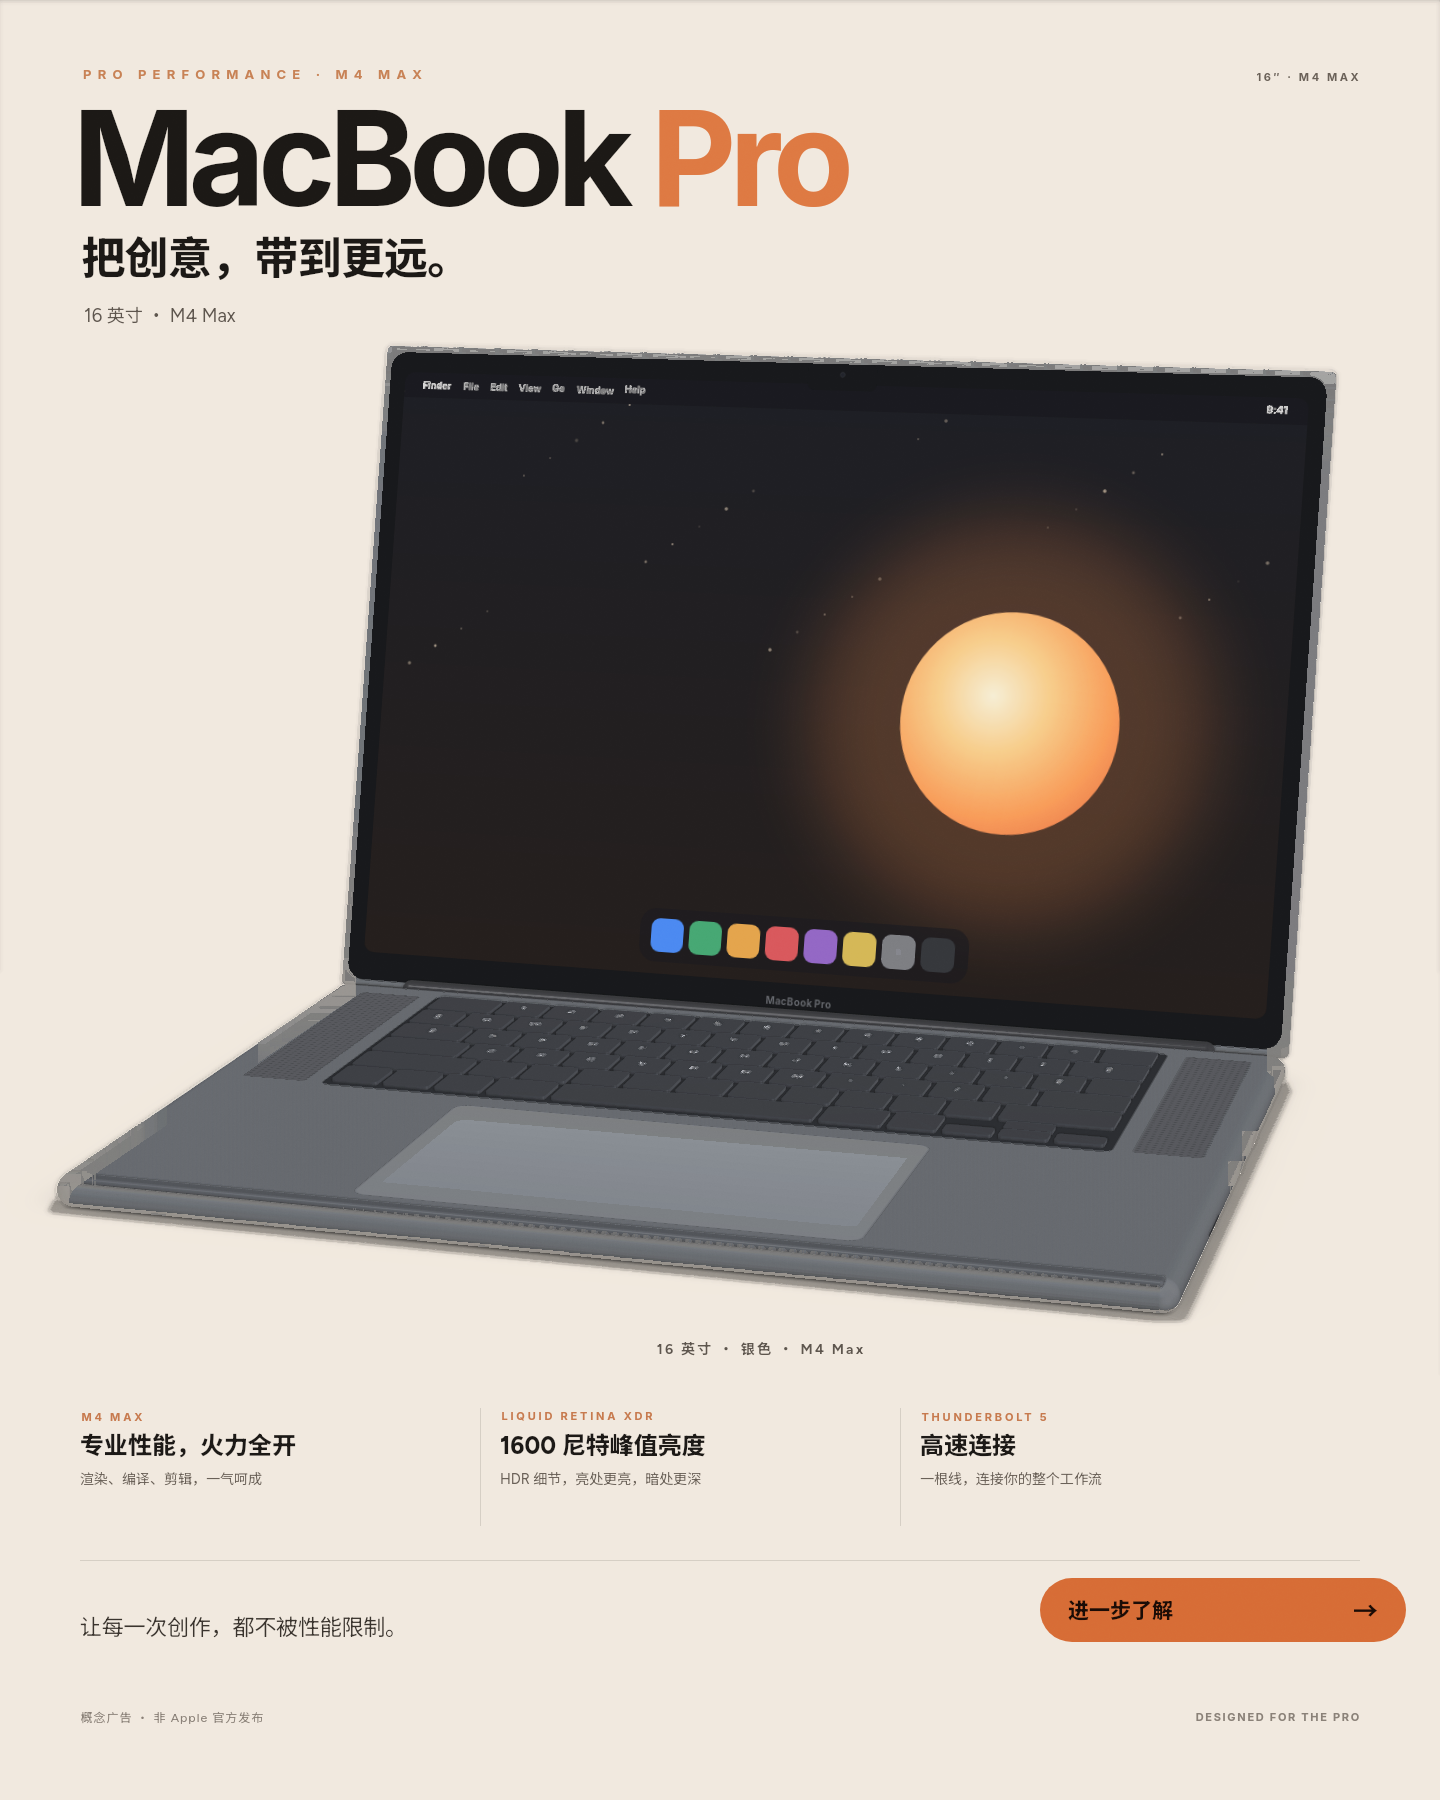
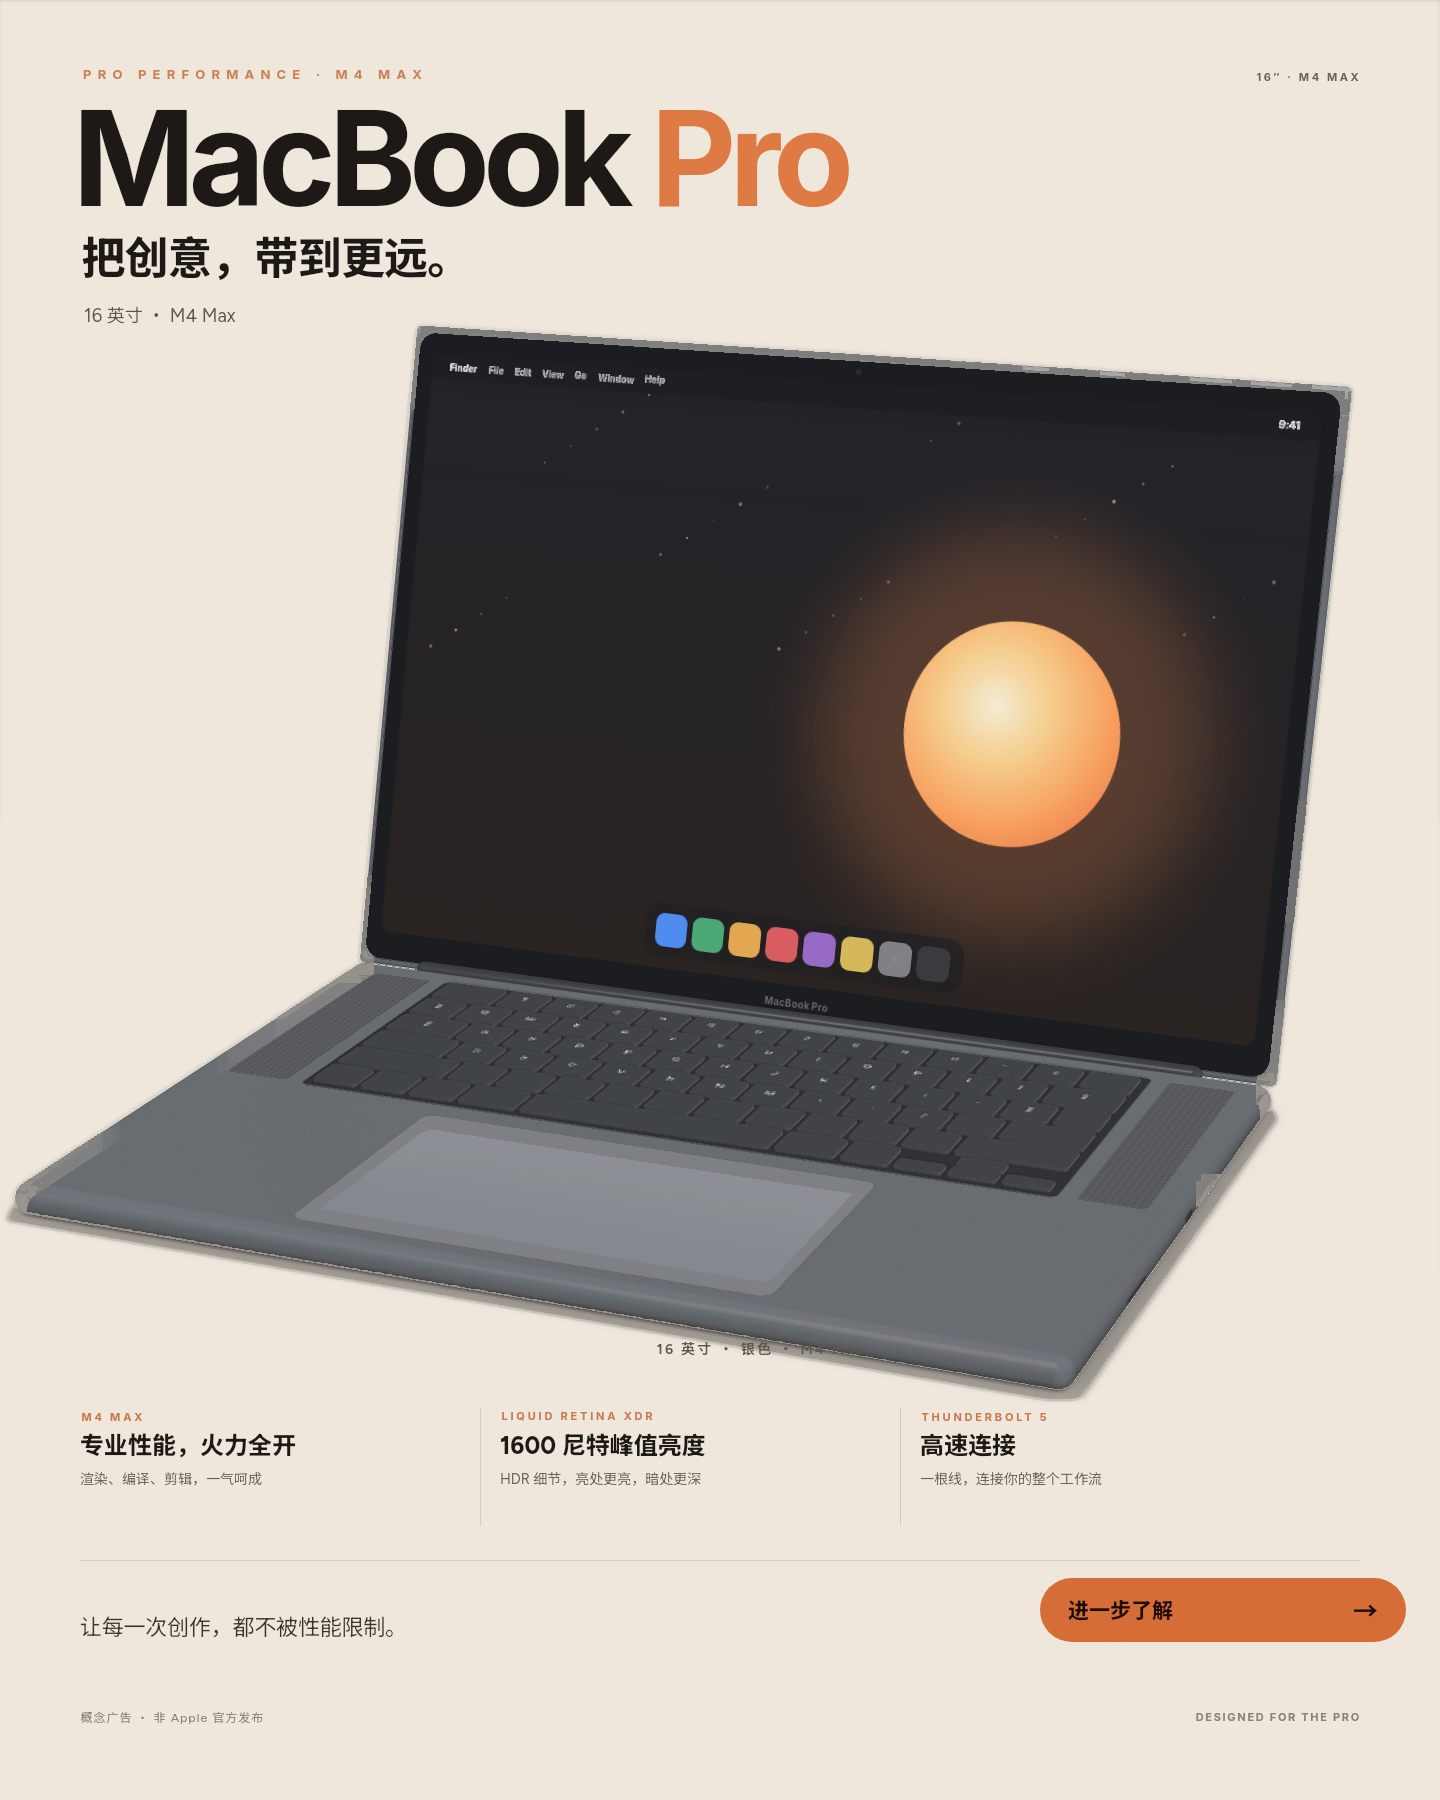
QUALITY-6 §9.2: side-white frost glass; space-gray macbook.
Move white stripe off the glass axis; frost 0.11; darker shell,
higher camera, no front bevel ghost rim.

diff --git a/examples/macbook-pro.tsx b/examples/macbook-pro.tsx
@@ -4,9 +4,8 @@
 // npx tsx src/cli.ts render examples/macbook-pro.tsx -o examples/macbook-pro.png
 // 机身 980 × 670 × 30，屏幕盖 980 × 666 × 10，按 2.755 px/mm 换算。
 // Darker shell so lid bezel specular cannot read as chrome (§9.2).
-const SILVER = '#6e737a'
+const SILVER = '#5f646b'
 const SHELL = 'plastic 0.845'
-const FRONT = '#555960'
 const KEY = '#2e3138'
 const WELL = '#1a1c20'
 
@@ -122,8 +121,6 @@ function Base() {
   return (
     <layer x={STAGE.x} y={STAGE.groundY - TOP} width={W} height={D} origin={`${W / 2} 0`} rotateX="90" preserve-3d>
       <rect width={W} height={D} rx="24" fill={SILVER} material={SHELL} depth={T} stroke="none" />
-      {/* Darker front lip so the extruded front face cannot read as chrome. */}
-      <rect x="12" y={D - 14} width={W - 24} height="14" rx="6" fill={FRONT} material="plastic 0.84" depth="6" z={TOP - 2} stroke="none" cast-shadow="false" />
       <layer x="0" y="0" width={W} height={D} z={TOP + 0.2} cast-shadow="false">
         <rect x={WELL_BOX.x} y={WELL_BOX.y} width={WELL_BOX.w} height={WELL_BOX.h} rx="8" fill={WELL} />
         <rect x={KB.x - GRILLE_W - 18} y={KB.y + 4} width={GRILLE_W} height={WELL_BOX.h - 8} rx="4" fill="#4a4c51" />
@@ -210,13 +207,13 @@ function Lid() {
 export default (
   <layer width="1440" height="1800" background="#f6f3ee" color="#1c1916" min-font="10" noise="0.012">
     <rect x="0" y="0" width="1440" height="1800" fill="linear-gradient(180deg, #f7f4ef 0%, #efe8df 100%)" />
-    <layer width="1440" height="1800" camera="fov 28, orbit 16 14" light="world" grade="matte 0.7">
-      {/* Stronger matte + darker front bevel kill chrome lip (§9.2). */}
-      <light type="hemisphere" intensity="0.58" color="#fff8f0" ground-color="#d2ccc4" />
-      <light type="directional" intensity="0.18" color="#fff5ea" x="200" y="-400" z="600" target="0 0 0" />
+    <layer width="1440" height="1800" camera="fov 28, orbit 22 18" light="world" grade="matte 0.85">
+      {/* Higher camera + heavy matte — front bevel/ghost rim read as chrome (§9.2). */}
+      <light type="hemisphere" intensity="0.7" color="#fff8f0" ground-color="#d2ccc4" />
+      <light type="directional" intensity="0.12" color="#fff5ea" x="120" y="-500" z="500" target="0 0 0" />
       <Lid />
       <Base />
-      <ground y={STAGE.groundY} rotateX="90" fill="#efe8df" shadow-blur="72" shadow-opacity="0.28" />
+      <ground y={STAGE.groundY} rotateX="90" fill="#efe8df" shadow-blur="80" shadow-opacity="0.24" />
     </layer>
     <layer x="80" y="66">
       <p style="font-family:Inter; font-size:13px; font-weight:700; letter-spacing:6.2px; color:#c88255">PRO PERFORMANCE · M4 MAX</p>

diff --git a/scripts/gallery-3d.ts b/scripts/gallery-3d.ts
@@ -337,13 +337,13 @@ function buildPlates(): { sheet: string; title: string; cols: number; cells: Pla
           )
           .replace(
             '<rect id="stripe-white" x="246" y="200" width="36" height="78" depth="160" fill="#f7f4ee" />',
-            // Thin pale edge-only white — wide cream bars read as blocky verticals
-            // through the glass under dual-blind (§9.2).
-            '<rect id="stripe-white" x="238" y="200" width="14" height="78" depth="160" fill="#a8a094" />',
+            // Drop vertical white behind glass (blocky refraction). A pale card
+            // beside the sphere still clips the glass for throughGlass white.
+            '<rect id="stripe-white" x="318" y="230" width="48" height="22" depth="40" fill="#e8e4dc" />',
           )
           .replace(
             '<sphere id="glass" cx="264" cy="268" r="58" z="58" fill="#f4fffbcc" material="glass 0.07" />',
-            '<sphere id="glass" cx="278" cy="272" r="52" z="52" fill="#ffffff55" material="glass 0.04" />',
+            '<sphere id="glass" cx="248" cy="268" r="54" z="54" fill="#ffffff44" material="glass 0.11" />',
           )
           .replace(
             '<circle id="gold" cx="780" cy="150" r="40" depth="160" fill="#e0a33a" material="plastic 0.22" />',

diff --git a/docs/gallery/3d/model/glb.tsx b/docs/gallery/3d/model/glb.tsx
@@ -14,7 +14,7 @@ import { layer } from 'flexlayer'
 export default layer.create(
   <layer width={440} height={300} background="#241f1b">
     <layer width={440} height={300} camera="fov 32, orbit 34 22, distance 860, at 220 210 0">
-      <ground y={220} rotateX={90} fill="#3a3f49" shadow-blur={40} shadow-opacity={0.36} />
+      <ground y={220} rotateX={90} fill="#3a3f49" shadow-blur={48} shadow-opacity={0.28} />
       <layer x={28} y={220} width={400} height={190} origin="200 0" rotateX={90} preserve-3d>
         <model src="box.glb" x="52" y="30" width="150" height="150" z="0" />
         <model src="diamond.glb" x="200" y="16" width="180" height="180" z="0" rotateY="-24" />

diff --git a/docs/gallery/3d/model/physical-glass.tsx b/docs/gallery/3d/model/physical-glass.tsx
@@ -25,7 +25,7 @@ function stripe(color: string, x: number) {
 export default layer.create(
   <layer width={440} height={300} background="#241f1b">
     <layer width={440} height={300} camera="fov 32, orbit 34 22, distance 860, at 220 210 0">
-      <ground y={220} rotateX={90} fill="#3a3f49" shadow-blur={40} shadow-opacity={0.36} />
+      <ground y={220} rotateX={90} fill="#3a3f49" shadow-blur={48} shadow-opacity={0.28} />
       <layer x={28} y={220} width={400} height={190} origin="200 0" rotateX={90} preserve-3d>
         <model object={stripe('#e23b2f', -0.42)} unit={85} x={200} y={190} />
         <model object={stripe('#f7f4ee', -0.12)} unit={85} x={200} y={190} />

diff --git a/docs/gallery/3d/model/standard-metal.tsx b/docs/gallery/3d/model/standard-metal.tsx
@@ -14,7 +14,7 @@ export default layer.create(
   <layer width={440} height={300} background="#241f1b">
     <layer width={440} height={300} camera="fov 32, orbit 34 22, distance 860, at 220 210 0" light="world">
       <light type="hemisphere" intensity="0.7" color="#fff6ea" ground-color="#6a6560" />
-      <ground y={220} rotateX={90} fill="#3a3f49" shadow-blur={40} shadow-opacity={0.36} />
+      <ground y={220} rotateX={90} fill="#3a3f49" shadow-blur={48} shadow-opacity={0.28} />
       <layer x={28} y={220} width={400} height={190} origin="200 0" rotateX={90} preserve-3d>
         <model object={mesh} unit={120} x={200} y={190} />
       </layer>

diff --git a/docs/gallery/3d/model/emissive.tsx b/docs/gallery/3d/model/emissive.tsx
@@ -33,7 +33,7 @@ box.position.set(0.7, 0.5, 0)
 export default layer.create(
   <layer width={440} height={300} background="#241f1b">
     <layer width={440} height={300} camera="fov 32, orbit 34 22, distance 860, at 220 210 0">
-      <ground y={220} rotateX={90} fill="#3a3f49" shadow-blur={40} shadow-opacity={0.36} />
+      <ground y={220} rotateX={90} fill="#3a3f49" shadow-blur={48} shadow-opacity={0.28} />
       <layer x={28} y={220} width={400} height={190} origin="200 0" rotateX={90} preserve-3d>
         <model object={box} unit={80} x={200} y={190} />
         <model object={bulb} unit={80} x={200} y={190} />

diff --git a/docs/gallery/3d/model/map.tsx b/docs/gallery/3d/model/map.tsx
@@ -32,7 +32,7 @@ const mesh = new THREE.Mesh(
 export default layer.create(
   <layer width={440} height={300} background="#241f1b">
     <layer width={440} height={300} camera="fov 32, orbit 34 22, distance 860, at 220 210 0">
-      <ground y={220} rotateX={90} fill="#3a3f49" shadow-blur={40} shadow-opacity={0.36} />
+      <ground y={220} rotateX={90} fill="#3a3f49" shadow-blur={48} shadow-opacity={0.28} />
       <layer x={28} y={220} width={400} height={190} origin="200 0" rotateX={90} preserve-3d>
         <model object={mesh} unit={120} x={200} y={210} />
       </layer>

diff --git a/docs/gallery/3d/model/standard-rough.tsx b/docs/gallery/3d/model/standard-rough.tsx
@@ -12,7 +12,7 @@ const mesh = new THREE.Mesh(
 export default layer.create(
   <layer width={440} height={300} background="#241f1b">
     <layer width={440} height={300} camera="fov 32, orbit 34 22, distance 860, at 220 210 0">
-      <ground y={220} rotateX={90} fill="#3a3f49" shadow-blur={40} shadow-opacity={0.36} />
+      <ground y={220} rotateX={90} fill="#3a3f49" shadow-blur={48} shadow-opacity={0.28} />
       <layer x={28} y={220} width={400} height={190} origin="200 0" rotateX={90} preserve-3d>
         <model object={mesh} unit={120} x={200} y={190} />
       </layer>

diff --git a/docs/gallery/3d/model/vertex-colors.tsx b/docs/gallery/3d/model/vertex-colors.tsx
@@ -38,7 +38,7 @@ const mesh = new THREE.Mesh(
 export default layer.create(
   <layer width={440} height={300} background="#241f1b">
     <layer width={440} height={300} camera="fov 32, orbit 34 22, distance 860, at 220 210 0">
-      <ground y={220} rotateX={90} fill="#3a3f49" shadow-blur={40} shadow-opacity={0.36} />
+      <ground y={220} rotateX={90} fill="#3a3f49" shadow-blur={48} shadow-opacity={0.28} />
       <layer x={28} y={220} width={400} height={190} origin="200 0" rotateX={90} preserve-3d>
         <model object={mesh} unit={120} x={200} y={190} />
       </layer>

diff --git a/docs/gallery/3d/model/lines-points.tsx b/docs/gallery/3d/model/lines-points.tsx
@@ -53,7 +53,7 @@ group.add(box, ring, dots)
 export default layer.create(
   <layer width={440} height={300} background="#241f1b">
     <layer width={440} height={300} camera="fov 32, orbit 34 22, distance 860, at 220 210 0">
-      <ground y={220} rotateX={90} fill="#3a3f49" shadow-blur={40} shadow-opacity={0.36} />
+      <ground y={220} rotateX={90} fill="#3a3f49" shadow-blur={48} shadow-opacity={0.28} />
       <layer x={28} y={220} width={400} height={190} origin="200 0" rotateX={90} preserve-3d>
         <model object={group} unit={120} x={200} y={190} />
       </layer>

diff --git a/docs/gallery/3d/model/phong.tsx b/docs/gallery/3d/model/phong.tsx
@@ -13,7 +13,7 @@ const mesh = new THREE.Mesh(
 export default layer.create(
   <layer width={440} height={300} background="#241f1b">
     <layer width={440} height={300} camera="fov 32, orbit 34 22, distance 860, at 220 210 0">
-      <ground y={220} rotateX={90} fill="#3a3f49" shadow-blur={40} shadow-opacity={0.36} />
+      <ground y={220} rotateX={90} fill="#3a3f49" shadow-blur={48} shadow-opacity={0.28} />
       <layer x={28} y={220} width={400} height={190} origin="200 0" rotateX={90} preserve-3d>
         <model object={mesh} unit={92} x={200} y={190} />
       </layer>

diff --git a/docs/gallery/3d/model/cell.tsx b/docs/gallery/3d/model/cell.tsx
@@ -19,7 +19,7 @@ export function cell(body: JSX.Element, caption: string) {
   return layer.create(
     <layer width={440} height={300} background="#241f1b">
       <layer width={440} height={300} camera={CAMERA}>
-        <ground y={FLOOR} rotateX={90} fill="#3a3f49" shadow-blur={40} shadow-opacity={0.36} />
+        <ground y={FLOOR} rotateX={90} fill="#3a3f49" shadow-blur={48} shadow-opacity={0.28} />
         {body}
       </layer>
       <layer x={12} y={272}>
